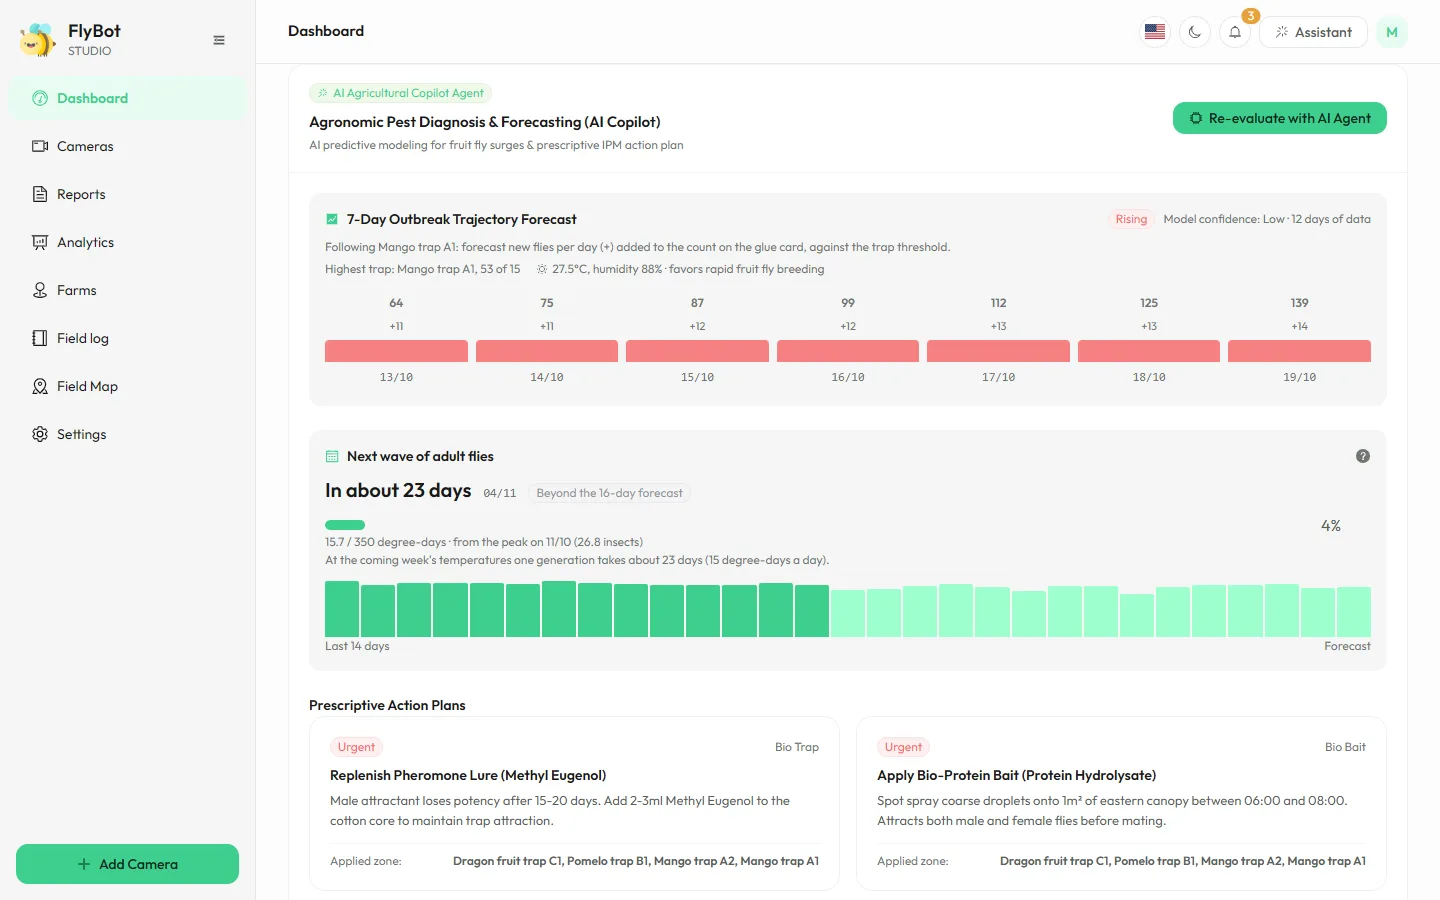
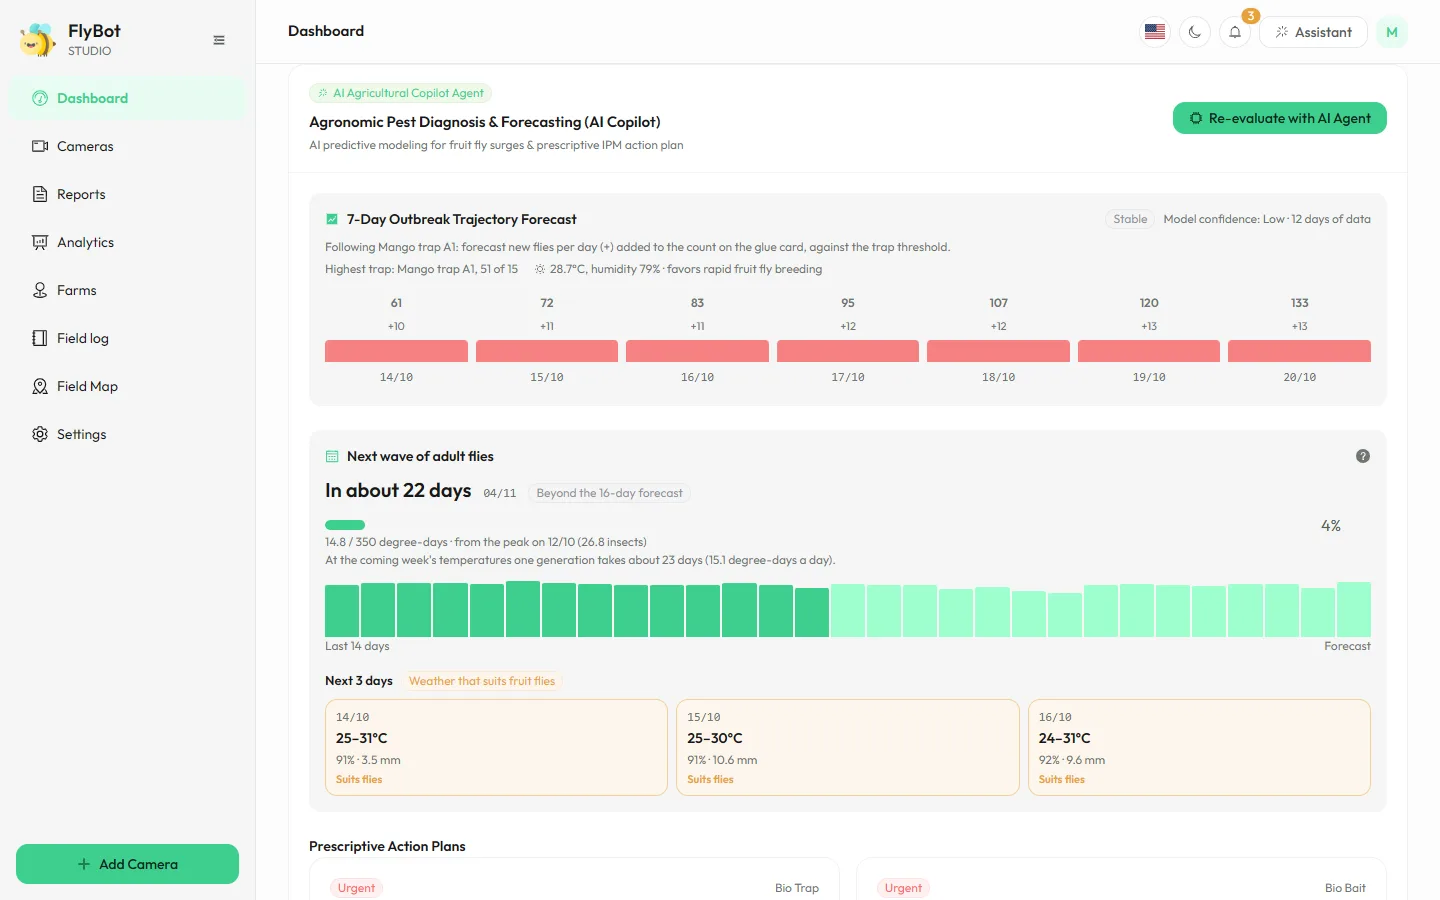
Excel exports of the farm comparison and the ingredient table; guide pictures
- "Export Excel" on Compare farms (sheets for farms and for plots) and on
  Effect by active ingredient, built by utils/tableExport.js (unit tested;
  write-excel-file's multi-sheet API)
- Guide pictures in both languages: the farm comparison on Farms, the next
  3 days in the degree-day panel, the ingredient table in the Field log
  (shoot.mjs: weather-outlook and logbook-ingredients shots)

diff --git a/client/src/utils/tableExport.js b/client/src/utils/tableExport.js
@@ -1,0 +1,57 @@
+// Excel exports of the comparison tables (farms, active ingredients): rows built here, written
+// with the lazily loaded writer. One sheet per table; headers bold and kept in view.
+import { loadExcelWriter } from '@/utils/lazyLibs';
+
+const header = (labels) => labels.map((value) => ({ value, fontWeight: 'bold', wrap: true }));
+// Empty cell for an unknown value, never "null"
+const cell = (value) => (value === null || value === undefined ? '' : value);
+const day = (value) => (value ? new Date(value).toISOString().slice(0, 10) : '');
+
+/** Farms and their plots, as two sheets. */
+export function farmCompareSheets(farms, period, t) {
+  const farmRows = farms.map((f) => [
+    f.name, f.traps, cell(f.ftd), cell(f.previousFtd), cell(f.changePct),
+    f.worstPlot ? `${f.worstPlot.name} (${f.worstPlot.ftd})` : '', f.treatments
+  ]);
+  const plotRows = farms.flatMap((f) => f.plots.map((p) => [f.name, p.name, p.traps, cell(p.ftd), cell(p.changePct)]));
+  return [
+    {
+      name: t('farms.compare.sheetFarms', { days: period }),
+      rows: [header([t('farms.compare.farm'), t('farms.compare.trapsCol'), t('farms.compare.ftd'), t('farms.compare.previousFtd'),
+        t('farms.compare.changePctCol'), t('farms.compare.worstPlot'), t('farms.compare.treatments')]), ...farmRows],
+      widths: [28, 10, 16, 16, 16, 26, 12]
+    },
+    {
+      name: t('farms.compare.sheetPlots'),
+      rows: [header([t('farms.compare.farm'), t('farms.compare.plot'), t('farms.compare.trapsCol'), t('farms.compare.ftd'),
+        t('farms.compare.changePctCol')]), ...plotRows],
+      widths: [28, 24, 10, 16, 16]
+    }
+  ];
+}
+
+/** Active ingredients and their effect, as one sheet. */
+export function ingredientSheets(groups, t) {
+  const rows = groups.map((g) => [
+    g.name, g.products.join(', '), g.uses, g.measured, cell(g.avgChangePct), g.measured ? g.effective : '', day(g.lastAt)
+  ]);
+  return [{
+    name: t('logbook.byIngredient.sheetName'),
+    rows: [header([t('logbook.byIngredient.name'), t('logbook.byIngredient.products'), t('logbook.byIngredient.uses'),
+      t('logbook.byIngredient.measured'), t('logbook.byIngredient.avgChangePct'), t('logbook.byIngredient.clearlyWorked'),
+      t('logbook.byIngredient.last')]), ...rows],
+    widths: [28, 28, 10, 12, 18, 16, 14]
+  }];
+}
+
+/** Write sheets ([{ name, rows, widths }]) to an .xlsx download. */
+export async function downloadSheets(fileName, sheets) {
+  const write = await loadExcelWriter();
+  await write(sheets.map((s) => ({
+    data: s.rows,
+    // Excel limits sheet names to 31 characters
+    sheet: s.name.slice(0, 31),
+    columns: s.widths.map((width) => ({ width })),
+    stickyRowsCount: 1
+  }))).toFile(fileName);
+}

diff --git a/client/tests/unit/tableExport.test.js b/client/tests/unit/tableExport.test.js
@@ -1,0 +1,35 @@
+import { describe, it, expect } from 'vitest';
+import { farmCompareSheets, ingredientSheets } from '@/utils/tableExport';
+
+const t = (key, params) => (params ? `${key}:${JSON.stringify(params)}` : key);
+const values = (row) => row.map((c) => (typeof c === 'object' && c !== null ? c.value : c));
+
+describe('Excel exports of the comparison tables', () => {
+  it('farms and plots, unknown values left empty', () => {
+    const farms = [
+      { name: 'Mango', traps: 2, ftd: 6, previousFtd: 4, changePct: 50, worstPlot: { name: 'Plot A', ftd: 10 }, treatments: 3,
+        plots: [{ name: 'Plot A', traps: 1, ftd: 10, changePct: 150 }, { name: 'Plot B', traps: 1, ftd: null, changePct: null }] },
+      { name: 'Empty', traps: 0, ftd: null, previousFtd: null, changePct: null, worstPlot: null, treatments: 0, plots: [] }
+    ];
+    const [farmSheet, plotSheet] = farmCompareSheets(farms, 30, t);
+    expect(farmSheet.name).toBe('farms.compare.sheetFarms:{"days":30}');
+    expect(farmSheet.rows[0][0]).toEqual({ value: 'farms.compare.farm', fontWeight: 'bold', wrap: true });
+    expect(values(farmSheet.rows[1])).toEqual(['Mango', 2, 6, 4, 50, 'Plot A (10)', 3]);
+    expect(values(farmSheet.rows[2])).toEqual(['Empty', 0, '', '', '', '', 0]);
+    expect(plotSheet.rows.slice(1)).toEqual([['Mango', 'Plot A', 1, 10, 150], ['Mango', 'Plot B', 1, '', '']]);
+    expect(farmSheet.widths.length).toBe(farmSheet.rows[0].length);
+    expect(plotSheet.widths.length).toBe(plotSheet.rows[0].length);
+  });
+
+  it('active ingredients, with no "clearly worked" count when nothing was measured', () => {
+    const [sheet] = ingredientSheets([
+      { name: 'Spinetoram', products: ['Radiant 60SC'], uses: 2, measured: 1, effective: 1, avgChangePct: -67, lastAt: '2026-10-11T00:00:00Z' },
+      { name: 'Methyl eugenol', products: [], uses: 1, measured: 0, effective: 0, avgChangePct: null, lastAt: '2026-09-21T09:00:00Z' }
+    ], t);
+    expect(sheet.rows.slice(1)).toEqual([
+      ['Spinetoram', 'Radiant 60SC', 2, 1, -67, 1, '2026-10-11'],
+      ['Methyl eugenol', '', 1, 0, '', '', '2026-09-21']
+    ]);
+    expect(sheet.widths.length).toBe(sheet.rows[0].length);
+  });
+});

diff --git a/client/src/components/farms/FarmCompareCard.vue b/client/src/components/farms/FarmCompareCard.vue
@@ -6,9 +6,12 @@
           <h3 class="section-title">{{ t('farms.compare.title') }}</h3>
           <p class="section-desc">{{ t('farms.compare.desc') }}</p>
         </div>
-        <el-radio-group v-model="period" size="small" @change="load">
-          <el-radio-button v-for="p in PERIODS" :key="p" :value="p">{{ t('farms.compare.days', { days: p }) }}</el-radio-button>
-        </el-radio-group>
+        <div class="flex flex-wrap items-center gap-2">
+          <el-radio-group v-model="period" size="small" @change="load">
+            <el-radio-button v-for="p in PERIODS" :key="p" :value="p">{{ t('farms.compare.days', { days: p }) }}</el-radio-button>
+          </el-radio-group>
+          <el-button size="small" :icon="Download" :disabled="!withTraps.length" :loading="exporting" @click="exportExcel">{{ t('farms.compare.export') }}</el-button>
+        </div>
       </div>
     </template>
 
@@ -93,6 +96,8 @@ import api from '@/services/api';
 import { useBreakpoints } from '@/composables/useBreakpoints';
 import { requestErrorText } from '@/utils/requestError';
 import CatchBarChart from '@/components/charts/CatchBarChart.vue';
+import { Download } from '@element-plus/icons-vue';
+import { farmCompareSheets, downloadSheets } from '@/utils/tableExport';
 
 const PERIODS = [7, 30, 90];
 // Lines for the busiest farms; more would not be readable
@@ -139,6 +144,19 @@ const load = async () => {
     ElMessage.error(requestErrorText(t, err, t('common.error')));
   } finally {
     loading.value = false;
+  }
+};
+
+// The table as it is shown (farms with traps first), one sheet for farms and one for plots
+const exporting = ref(false);
+const exportExcel = async () => {
+  exporting.value = true;
+  try {
+    await downloadSheets(`FlyBot_farms_${period.value}d_${new Date().toISOString().slice(0, 10)}.xlsx`, farmCompareSheets(farms.value, period.value, t));
+  } catch (err) {
+    ElMessage.error(requestErrorText(t, err, t('common.error')));
+  } finally {
+    exporting.value = false;
   }
 };
 

diff --git a/client/src/pages/logbook/index.vue b/client/src/pages/logbook/index.vue
@@ -102,8 +102,13 @@
     <!-- Which active ingredients worked, across all their uses (same filters as the list) -->
     <el-card shadow="never" class="mt-4" v-loading="ingredientsLoading">
       <template #header>
-        <h3 class="section-title">{{ t('logbook.byIngredient.title') }}</h3>
-        <p class="log-meta mt-1">{{ t('logbook.byIngredient.desc') }}</p>
+        <div class="flex flex-col sm:flex-row sm:items-start justify-between gap-3">
+          <div class="min-w-0">
+            <h3 class="section-title">{{ t('logbook.byIngredient.title') }}</h3>
+            <p class="log-meta mt-1">{{ t('logbook.byIngredient.desc') }}</p>
+          </div>
+          <el-button size="small" :icon="Download" :disabled="!ingredients.length" @click="exportIngredients">{{ t('logbook.byIngredient.export') }}</el-button>
+        </div>
       </template>
       <el-empty v-if="!ingredients.length && !ingredientsLoading" :image-size="80" :description="t('logbook.byIngredient.empty')" />
 
@@ -228,6 +233,7 @@ import { useAuth } from '@/composables/useAuth';
 import { useCameras } from '@/composables/useCameras';
 import { useBreakpoints } from '@/composables/useBreakpoints';
 import { loadExcelWriter } from '@/utils/lazyLibs';
+import { ingredientSheets, downloadSheets } from '@/utils/tableExport';
 import PageHeader from '@/components/common/PageHeader.vue';
 import StatCard from '@/components/common/StatCard.vue';
 
@@ -328,6 +334,13 @@ const reload = () => {
 };
 
 // ---------- Effectiveness per active ingredient ----------
+const exportIngredients = async () => {
+  try {
+    await downloadSheets(`FlyBot_ingredients_${new Date().toISOString().slice(0, 10)}.xlsx`, ingredientSheets(ingredients.value, t));
+  } catch (err) {
+    ElMessage.error(errorText(err));
+  }
+};
 const ingredients = ref([]);
 const ingredientsLoading = ref(false);
 const loadIngredients = async () => {

diff --git a/client/src/pages/Manual.vue b/client/src/pages/Manual.vue
@@ -20,11 +20,11 @@ const IMAGES = {
   'ai.review': ['detection'],
   'ai.analytics': ['analytics', 'widget-filter', 'catch-chart'],
   'ai.insights': ['insights', 'insights-table'],
-  'ai.forecast': ['diagnosis'],
-  'farms.plots': ['farm-map'],
+  'ai.forecast': ['diagnosis', 'weather-outlook'],
+  'farms.plots': ['farms', 'farm-map'],
   'farms.map': ['map'],
   'farms.sharing': ['organizations'],
-  'farms.log': ['logbook'],
+  'farms.log': ['logbook', 'logbook-ingredients'],
   'alerts.smart': ['notifications'],
   'alerts.channels': ['alert-settings'],
   'alerts.reports': ['reports', 'report-share', 'report-schedule'],

diff --git a/CHANGELOG.md b/CHANGELOG.md
@@ -2,6 +2,9 @@
 
 ## Unreleased
 
+### Exports
+- **Export Excel** for the farm comparison (a sheet for farms, one for plots) and for the effect by active ingredient, for cooperatives to send on.
+
 ### FlyBot assistant
 - Also answers which active ingredients worked best, how the farms compare, and whether the next 3 days suit fruit flies.
 
